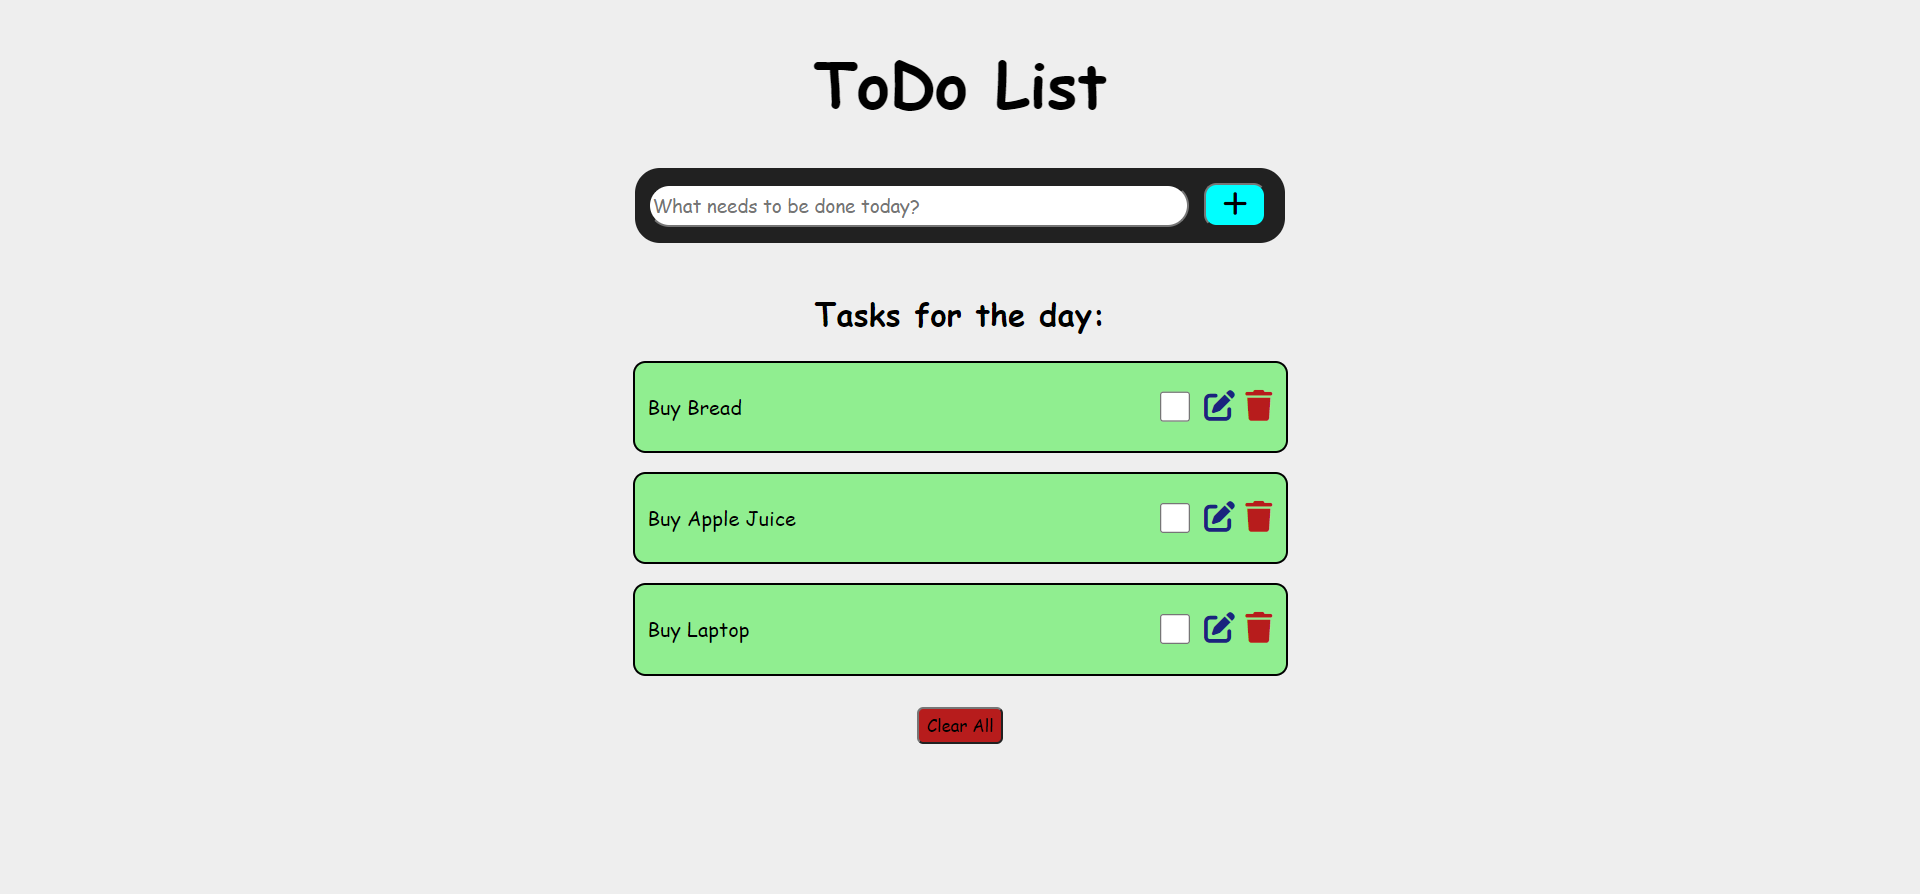
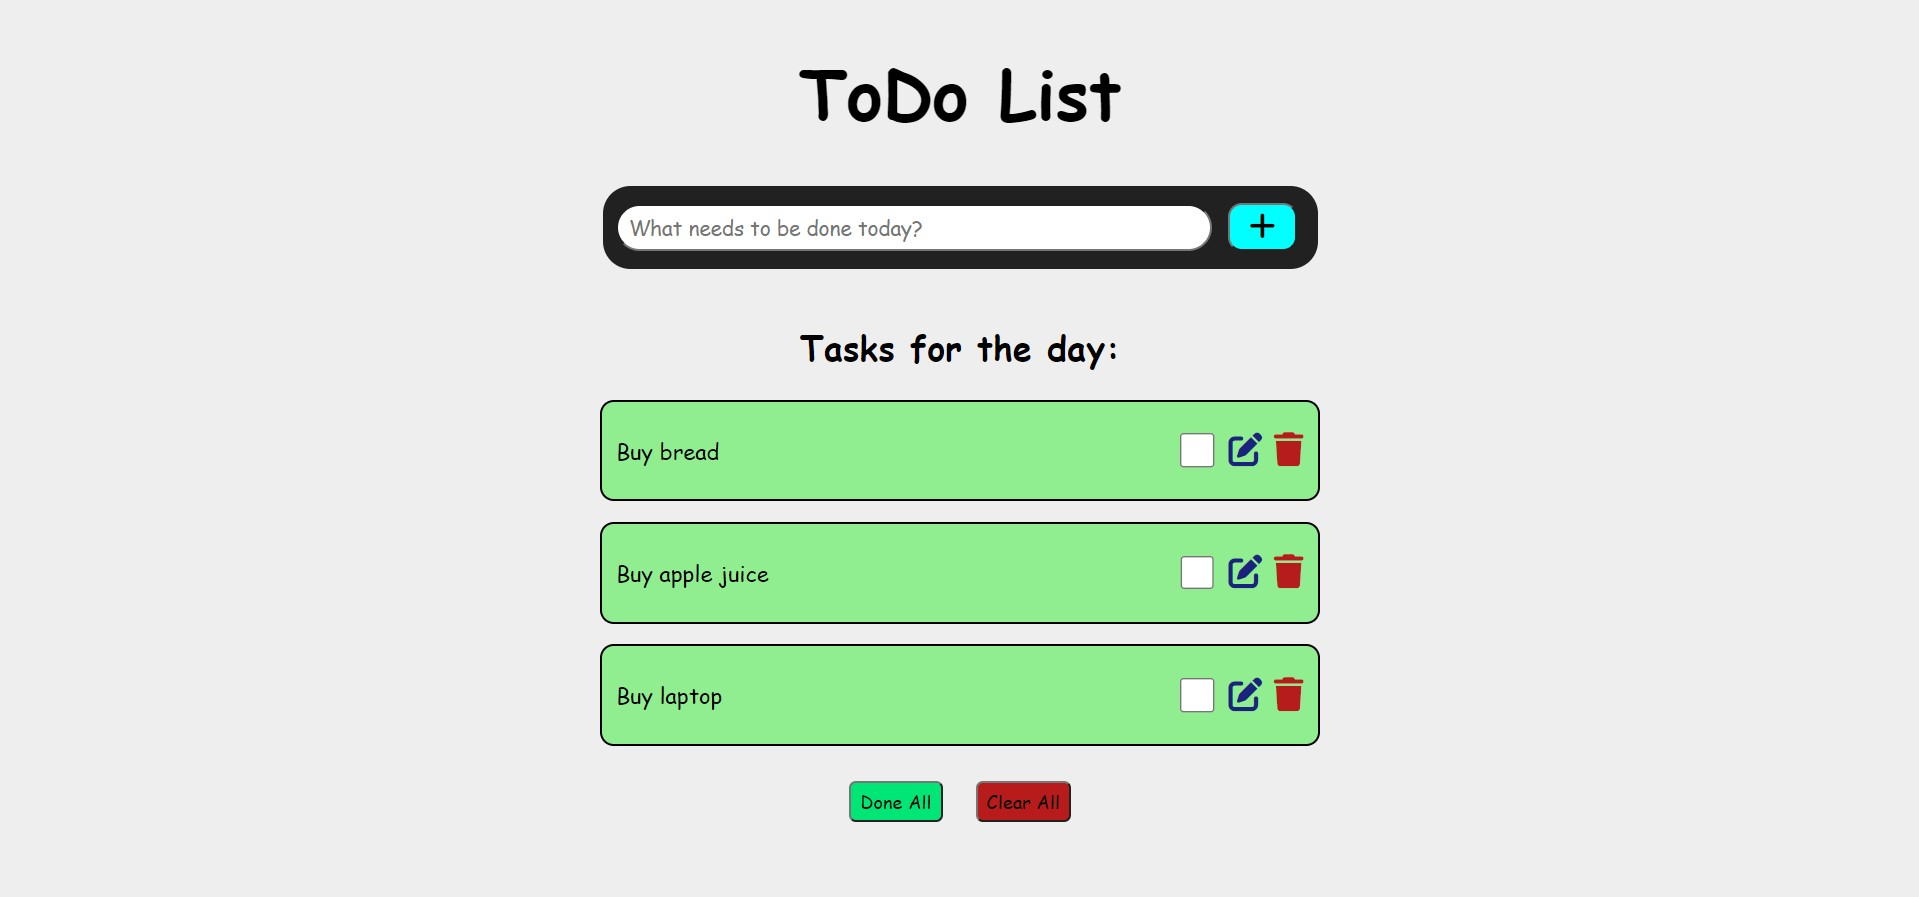
release

Changed region(s): [[0.3075, 0.3322, 0.7071, 0.9362], [0.3075, 0.1812, 0.7071, 0.302], [0.3997, 0.0604, 0.5842, 0.151]]

diff --git a/js/script.js b/js/script.js
@@ -1,7 +1,8 @@
 const addTask = document.getElementById('add-task');
 const inputTask = document.getElementById('task-input');
 const allTasks = document.querySelector('.all-tasks');
-const delAll = document.getElementById('delete-all-tasks');
+const deleteAll = document.getElementById('delete-all-tasks');
+const completeAll = document.getElementById('done-all-tasks')
 
 
 let tasks = [];
@@ -37,18 +38,22 @@ function createTask(task, index) {
 
 
 function filterTasks() {
-    const activeTask = tasks.length && tasks.filter(item => item.completed === false);
-    const completedTask = tasks.length && tasks.filter(item => item.completed === true);
-    tasks = [...activeTask, ...completedTask];
+    tasks.sort((previous, next) => previous.completed - next.completed)
+    
+    // const activeTask = tasks.length && tasks.filter(item => item.completed === false);
+    // const completedTask = tasks.length && tasks.filter(item => item.completed === true);
+    // tasks = [...activeTask, ...completedTask];
 }
 
 
 function showTasks() {
     allTasks.innerHTML = "";
     if (tasks.length === 0) {
-        delAll.classList.add("hide");
+        deleteAll.classList.add("hide");
+        completeAll.classList.add("hide");
     } else {
-        delAll.classList.remove("hide");
+        deleteAll.classList.remove("hide");
+        completeAll.classList.remove("hide");
     }
     if (tasks.length > 0) {
         filterTasks();
@@ -134,11 +139,32 @@ addTask.addEventListener("click", () => {
 });
 
 
-delAll.addEventListener("click", () => {
-        setTimeout(() => {
-            alertify.success('All tasks deleted!')
-            }, 100)
-        tasks = [];
+completeAll.addEventListener("click", () => {  
+        for(let i = 0; i < tasks.length; ++i) {          
+          if (!tasks[i].completed) {
+            tasks[i].completed = true;
+            todoTasks[i].classList.add('checked')
+            setTimeout(() => {
+                alertify.success('Task done!')
+                }, 100)           
+          } else {
+            setTimeout(() => {
+                alertify.warning('Task not done!')
+                }, 100)   
+            tasks[i].completed = false;
+            todoTasks[i].classList.remove('checked')           
+          }
+        }
         storage();
-        showTasks();       
+        showTasks();      
+})
+
+
+deleteAll.addEventListener("click", () => {
+    setTimeout(() => {
+        alertify.success('All tasks deleted!')
+        }, 100)
+    tasks = [];
+    storage();
+    showTasks();       
 });

diff --git a/css/adaptive.css b/css/adaptive.css
@@ -136,11 +136,11 @@
         color: darkcyan;
     }    
 
-    .del-all-tasks-button button {
+    .all-tasks-buttons button {
         background-color: #EF5350;
         color: black;
         cursor: pointer;
-        font-family: sans-serif;
+        font-family: normal;
         border-radius: 15px;
         margin-top: -180px;
         font-size: 42px;
@@ -148,16 +148,28 @@
         height: 85px;
     }
 
-    .del-all-tasks-button button:hover {
+    .all-tasks-buttons button:hover {
         background-color: darkred;
     }
 
-    .create-task.deleted {
-        opacity: 0;
-        visibility: hidden;
-        transition: opacity 1s, visibility 0s 1s;
+    .all-tasks-buttons button.done {
+        background-color: #00E676;
+        color: black;
+        cursor: pointer;
+        font-family: normal;
+        height: 85px;
+        border-radius: 15px;
+        margin: 25px;
+        font-size: 42px;
     }
-}
+    
+    .all-tasks-buttons button.done:hover {
+        background-color:#81C784;
+    }
+    
+    .all-tasks-buttons button.hide {
+        display: none;
+    }
   
 @media only screen and (max-width: 480px) {
 

diff --git a/css/style.css b/css/style.css
@@ -153,7 +153,7 @@ input[type='txt'] {
     color: darkcyan;
 }
 
-.del-all-tasks-button button {
+.all-tasks-buttons button {
     background-color: #B71C1C;
     color: black;
     cursor: pointer;
@@ -163,10 +163,23 @@ input[type='txt'] {
     margin: 10px;
 }
 
-.del-all-tasks-button button:hover {
+.all-tasks-buttons button:hover {
     background-color: darkred;
 }
 
-.del-all-tasks-button button.hide {
+.all-tasks-buttons button.done {
+    background-color: #00E676;
+    color: black;
+    cursor: pointer;
+    font-family: cursive;
+    height: 30px;
+    border-radius: 5px;
+}
+
+.all-tasks-buttons button.done:hover {
+    background-color:#81C784;
+}
+
+.all-tasks-buttons button.hide {
     display: none;
 }

diff --git a/index.html b/index.html
@@ -24,7 +24,8 @@
             </div></br>
             <h2>Tasks for the day:</h2>
             <div class="all-tasks"></div>
-            <div class="del-all-tasks-button">
+            <div class="all-tasks-buttons">
+                <button id="done-all-tasks" class="done">Done All</button>
                 <button id="delete-all-tasks">Clear All</button>
             </div>
         </div>
